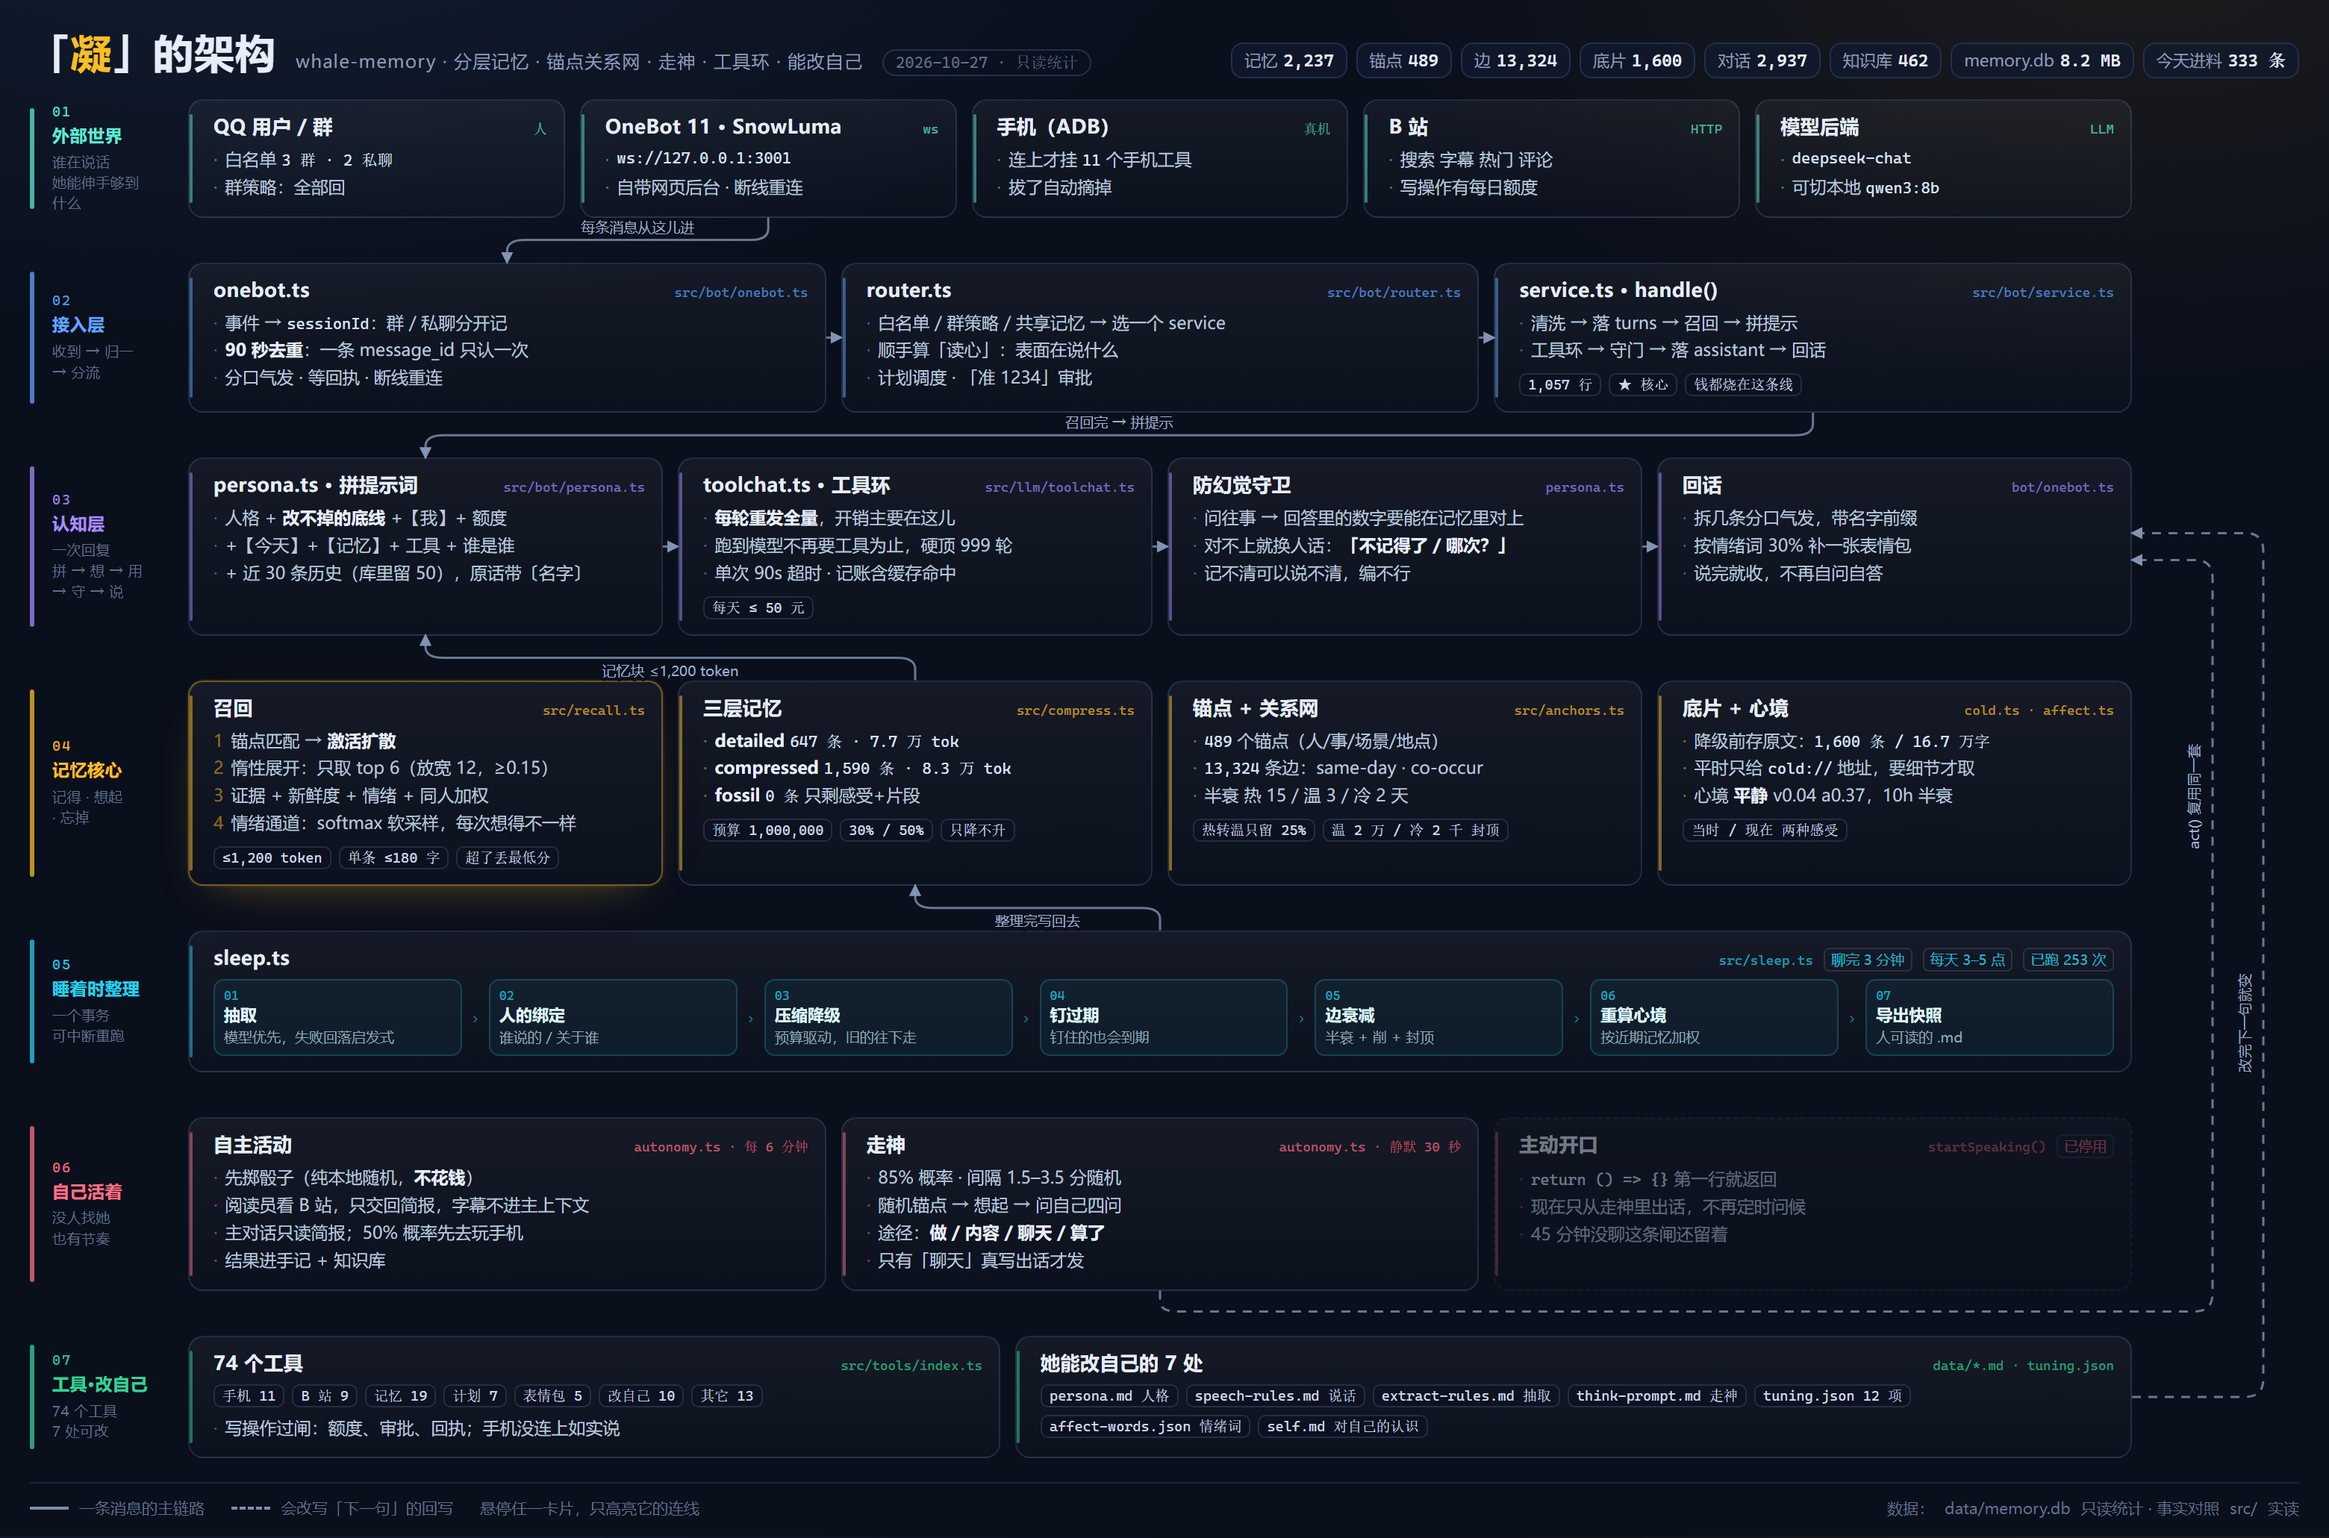
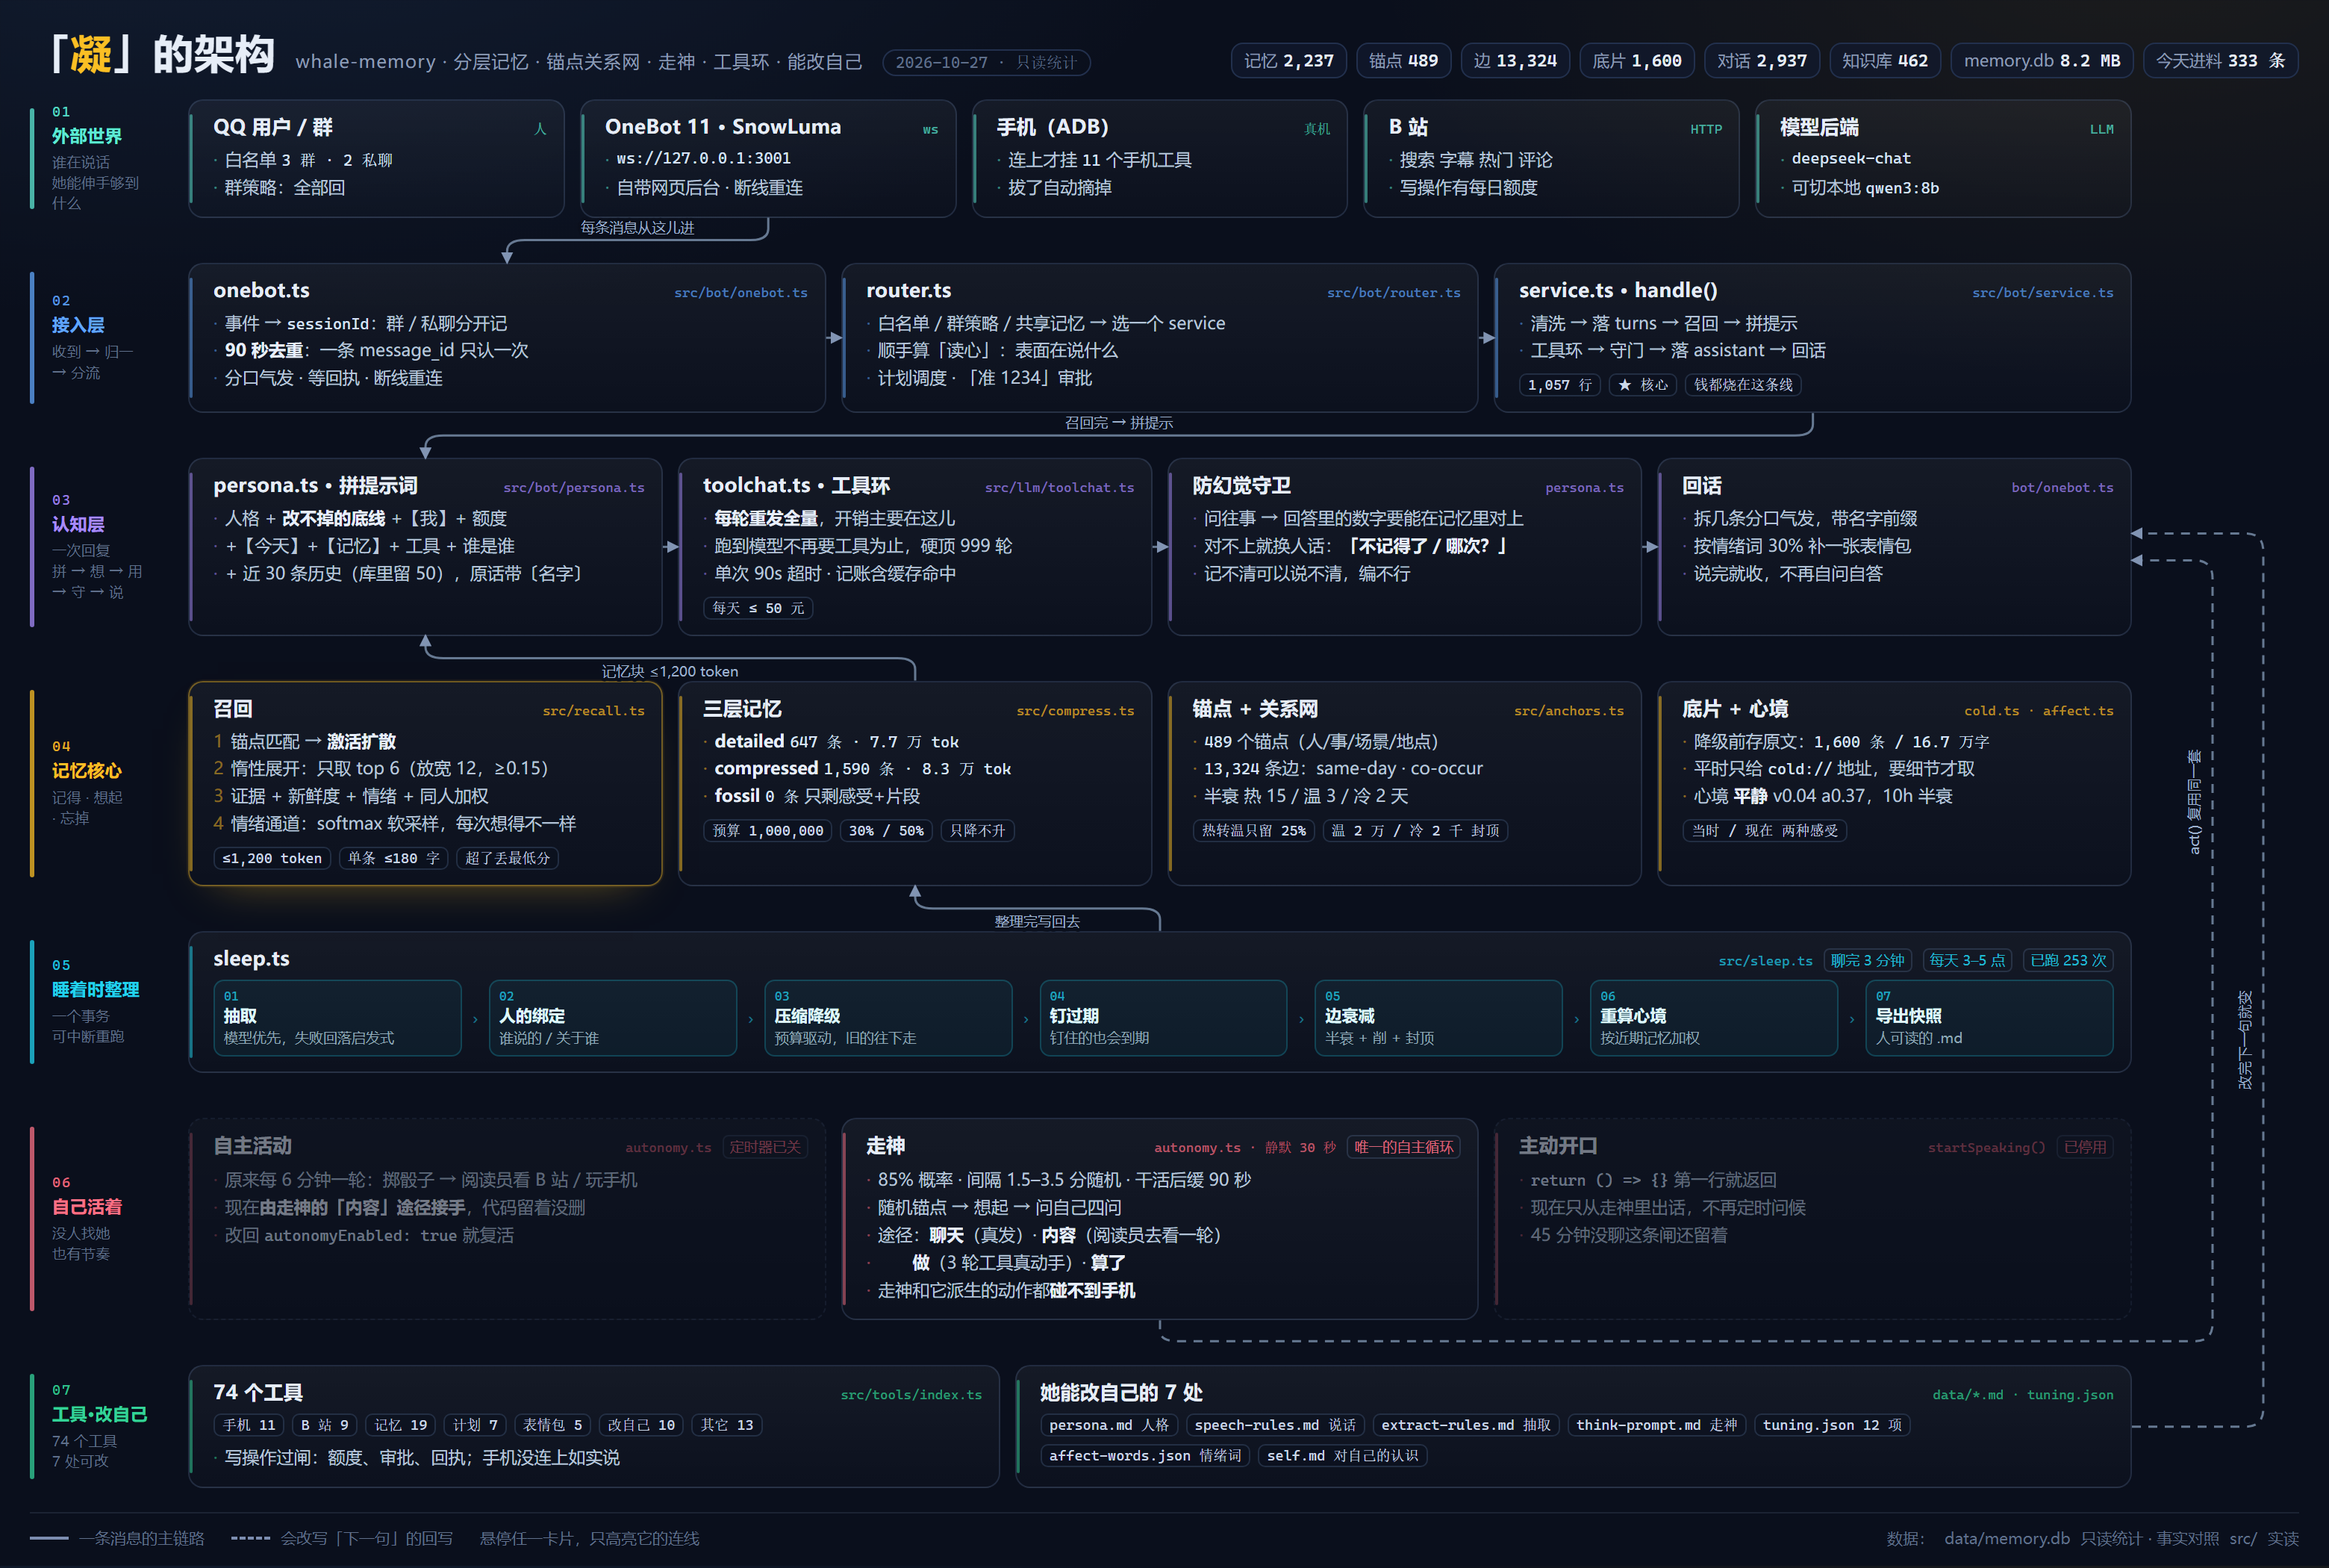
文档跟上代码：走神成为唯一自主循环、自主活动定时器关闭
- PROJECT.md：第六节重写成四条途径各有执行器；目录说明、后台线描述、
  已知问题（busy 锁）同步；今天改过的东西加第 12 条
- tuning.md：§6 改成「走神 = 唯一的自主循环」，标出自主活动那套旋钮已失效、
  autonomyIdleMinutes 从没接线；省钱/活泼两处场景改推荐项
- rules.md：轮次上限、各循环时间参数表按现状重写（走神 85%、自主活动已关）
- how-i-work.md：第五节改成「你自己动起来」，只剩走神一条路 + 四途径表
- architecture-map.html：自主活动卡片标「定时器已关」并注明由走神接手，
  走神卡片标「唯一的自主循环」+ 四途径；重渲染 architecture-map.png

diff --git a/docs/architecture-map.html b/docs/architecture-map.html
@@ -303,19 +303,19 @@
   <div class="rail auto"><div class="n">06</div><div class="nm">自己活着</div><div class="ds">没人找她<br>也有节奏</div></div>
   <div class="band">
     <div class="row">
-      <div class="card auto" data-id="auto-act">
-        <div class="hd"><b>自主活动</b><span class="p">autonomy.ts · 每 6 分钟</span></div>
-        <div class="ln"><i>·</i><span>先掷骰子（纯本地随机，<b>不花钱</b>）</span></div>
-        <div class="ln"><i>·</i><span>阅读员看 B 站，只交回简报，字幕不进主上下文</span></div>
-        <div class="ln"><i>·</i><span>主对话只读简报；50% 概率先去玩手机</span></div>
-        <div class="ln"><i>·</i><span>结果进手记 + 知识库</span></div>
+      <div class="card auto is-off" data-id="auto-act">
+        <div class="hd"><b>自主活动</b><span class="p">autonomy.ts</span><span class="cls">定时器已关</span></div>
+        <div class="ln"><i>·</i><span>原来每 6 分钟一轮：掷骰子 → 阅读员看 B 站 / 玩手机</span></div>
+        <div class="ln"><i>·</i><span>现在<b>由走神的「内容」途径接手</b>，代码留着没删</span></div>
+        <div class="ln"><i>·</i><span>改回 <span class="m">autonomyEnabled: true</span> 就复活</span></div>
       </div>
       <div class="card auto" data-id="auto-think">
-        <div class="hd"><b>走神</b><span class="p">autonomy.ts · 静默 30 秒</span></div>
-        <div class="ln"><i>·</i><span>85% 概率 · 间隔 1.5–3.5 分随机</span></div>
+        <div class="hd"><b>走神</b><span class="p">autonomy.ts · 静默 30 秒</span><span class="cls">唯一的自主循环</span></div>
+        <div class="ln"><i>·</i><span>85% 概率 · 间隔 1.5–3.5 分随机 · 干活后缓 90 秒</span></div>
         <div class="ln"><i>·</i><span>随机锚点 → 想起 → 问自己四问</span></div>
-        <div class="ln"><i>·</i><span>途径：<b>做 / 内容 / 聊天 / 算了</b></span></div>
-        <div class="ln"><i>·</i><span>只有「聊天」真写出话才发</span></div>
+        <div class="ln"><i>·</i><span>途径：<b>聊天</b>（真发）· <b>内容</b>（阅读员去看一轮）</span></div>
+        <div class="ln"><i>·</i><span>　　<b>做</b>（3 轮工具真动手）· <b>算了</b></span></div>
+        <div class="ln"><i>·</i><span>走神和它派生的动作都<b>碰不到手机</b></span></div>
       </div>
       <div class="card auto is-off" data-id="auto-speak">
         <div class="hd"><b>主动开口</b><span class="p">startSpeaking()</span><span class="cls">已停用</span></div>

diff --git a/docs/PROJECT.md b/docs/PROJECT.md
@@ -48,7 +48,7 @@ src/
     router.ts            按会话分流（共享记忆/独立记忆）、群白名单
     service.ts           ★核心：拼提示词、调模型、工具循环、历史、记账（1100 行）
     persona.ts           提示词拼装（人格/场景/记忆/历史/工具清单）
-    autonomy.ts          走神 + 自主活动 + 主动开口（被停用）
+    autonomy.ts          走神（**唯一的自主循环**）+ 自主活动（定时器已停用）+ 主动开口（已停用）
     config.ts            bot.json 读取与类型
     logview.ts           把 console 落成 bot.log + 3211 端口日志网页
   llm/
@@ -104,7 +104,7 @@ src/
 ④ 回复：分口气发（bubbles），带名字前缀
 ```
 
-**另有一条后台线**：`sleep.ts`（聊完 3 分钟 / 每天 3–5 点）做抽取和压缩；`autonomy.ts` 每 6 分钟做一轮自主活动、每 1.5–3.5 分钟走一次神。
+**另有一条后台线**：`sleep.ts`（聊完 3 分钟 / 每天 3–5 点）做抽取和压缩；`autonomy.ts` 每 1.5–3.5 分钟走一次神——**走神现在是唯一的自主循环**：去 B 站看、动手做事，都由它自己决定（自主活动的定时器已关）。
 
 ## 五、记忆是怎么组织的
 
@@ -139,12 +139,22 @@ src/
 
 | 行为 | 触发 | 现状 |
 |---|---|---|
-| **走神** | 安静 30 秒、85% 概率、两轮隔 1.5–3.5 分 | 活着。今天 27 次，其中 26 次判断"没要做的" |
-| **自主活动** | 每 6 分钟一轮 | 活着。B 站 / 手机 / 整理记忆，50% 概率去玩手机 |
+| **走神** | 安静 30 秒、85% 概率、两轮隔 1.5–3.5 分 | **唯一的自主循环**（2026-10-27 起）。四条途径都有落点，见下 |
+| **自主活动** | 原本每 6 分钟一轮 | ⚠ **定时器已关**（`bot.json` 的 `autonomyEnabled: false`），代码没删。主体（阅读员看 B 站）已挪成走神的「内容」途径 |
 | **主动开口** | 45 分钟没聊 | ⚠ **已停用**：`startSpeaking()` 第一行就是 `return () => {}` |
 
 走神的输出被解析成「目的 / 途径 / 消息 / 给」四行（`src/intent.ts`），途径 = `做 / 内容 / 聊天 / 算了`。
-只有途径 = 聊天且消息 ≥ 2 字才真的发出去。
+
+**四条途径在 2026-10-27 之前只有「聊天」真的发生什么**：「内容」和「做」只往手记写一行，`intent.action` 全项目没人读。现在：
+
+| 途径 | 谁执行 | 上限 |
+|---|---|---|
+| 聊天 | `onSpeak(msg, to)` → `deliver()` 真发出去 | — |
+| 内容 | `readOnce()`：派阅读员看一轮 B 站 → 简报 → 存知识库/写手记 | 阅读员 6 轮 + 学习 4 轮 |
+| 做 | `actOnce()`：给一件事，真的动手 | 3 轮 |
+| 算了 | 什么都不做 | — |
+
+两个执行器都和走神本身一样**不碰手机**（手机工具只在聊天里可用）。
 
 ## 七、工具系统（74 个）
 
@@ -200,6 +210,11 @@ src/
 11. **走神不再带手机工具**：`think()` 传 `toolFilter`（`service.ts` 的 `noPhoneTools`），
     `runChatWithTools` 按名字过滤 schema，提示词里的【工具】那行也跟着过滤。
     聊天和自主活动**照旧**有手机（玩手机那条路要用）。验证：`node tools/verify-think-no-phone.ts`
+12. **走神接上「内容」和「做」两个执行器**（`autonomy.ts` 的 `readOnce()` / `actOnce()`）：
+    以前四条途径里只有「对话」会真的发生什么，「内容」「做」只写一行手记。
+    现在「内容」派阅读员看一轮 B 站（原来自主活动的主体），「做」给 3 轮工具真的去做。
+    同时 `autonomyEnabled: false`——定时器关掉，代码留着。
+    验证：`node tools/verify-think-channels.ts`（换掉 fetch，两条路各跑一遍）
 
 ## 十、改代码的纪律（踩过的坑）
 
@@ -230,7 +245,7 @@ node tools/verify-phone-doc.ts        # 她能不能读到手机文档
 | 项 | 状态 |
 |---|---|
 | 主动开口（45 分钟）被 `return () => {}` 停用 | 待决定是否恢复 |
-| 走神与自主活动抢同一个 `busy` 锁，走神常被"刚忙完"跳过 | 待定 |
+| 走神与自主活动抢同一个 `busy` 锁，走神常被"刚忙完"跳过 | **已解决**（2026-10-27）：自主活动定时器关掉，只剩走神一条路 |
 | 第二层缺口：`same-day` 边仍是"当天锚点两两全连" | 已有限流方案未启用 |
 | GitHub 公开准备（拆出记忆、密钥、290 个一次性脚本、LICENSE、README） | 未开始 |
 | 日志每小时清空，不利于排查 | 未改 |

diff --git a/docs/how-i-work.md b/docs/how-i-work.md
@@ -98,15 +98,26 @@ events 表（当前 2000+ 条，分 detailed / compressed 两层）
 
 ---
 
-## 五、三种「她自己动起来」
+## 五、你自己动起来
 
-| 机制 | 触发条件 | 干什么 |
+**现在只剩一条路：走神。** 另外两条已经停了（代码还在，改回来就能用）。
+
+| 机制 | 现状 | 什么时候发生 / 干什么 |
 |---|---|---|
-| 主动开口 `speakUp()` | `autonomy.ts` 每 1–20 分钟随机检查；闲置越久概率越高（最高 0.7）；到额度上限就停 | 自己决定要不要开口说什么，返回「沉默」就不发 |
-| 走神 `think()` | 闲置超过 `thinkIdleSeconds`、任何活动后缓 `thinkSettleSeconds`、间隔 0.3–60 分钟、掷中 `thinkChance` | 静下来想事，可能变成计划、可能找人说话 |
-| 自主活动 `act()` | 每 `autonomyMinutes`（现在 6 分钟）一次，0–24 点 | 看视频、玩手机、整理记忆、写东西 |
+| **走神** `think()` | ✅ 活着，唯一的自主循环 | 安静 30 秒、缓过 90 秒、每 1.5–3.5 分钟掷一次（85%）。想起一个人或一件事，然后自己决定干什么 |
+| 自主活动 | ⚠ **定时器关着**（`autonomyEnabled: false`） | 原来每 6 分钟去 B 站看一轮、或者玩手机。现在这件事由走神的「内容」途径接手 |
+| 主动开口 `speakUp()` | ⚠ **停用**（`startSpeaking()` 第一行就返回） | 原来闲置 45 分钟后可能主动找你说话 |
 
-三者都走同一个模型入口，所以都能调工具。
+走神想完一定给出「目的 / 途径 / 消息 / 给」四行，途径只有四种，各有一个落点：
+
+| 途径 | 会发生什么 |
+|---|---|
+| 聊天 | 真的发消息给你（没写消息就不发，手记里留一笔） |
+| 内容 | 派阅读员去看一轮 B 站 → 简报 → 存进知识库、写手记 |
+| 做 | 真的动手：3 轮工具，改规矩、查记忆、设计划、写笔记 |
+| 算了 | 什么都不做，连手记都不写 |
+
+**走神和它派生的动作都碰不到手机**——手机工具只在跟你聊天时可用。
 
 ---
 

diff --git a/docs/rules.md b/docs/rules.md
@@ -20,7 +20,7 @@
 | 6 | 工具按设备挂载 | `adb devices` 无设备 | 11 个手机工具**不注册** | tools/index.ts |
 | 7 | 说话人加权 | 共享记忆下检索 | 自己的事 ×1.25，别人的 ×0.75 | recall.ts |
 | 8 | 气泡拆分 | 回复 >28 字且有多句 | 拆成 1–3 条，中间停 0.45–1.5 秒 | bubbles.ts |
-| 9 | 工具轮次上限 | 一次行动 | 普通 8 轮 / 玩手机 25 轮 / 走神 20 轮 | service.ts |
+| 9 | 工具轮次上限 | 一次行动 | 回话 12 轮 / 走神想事 12 轮；走神派生出的「做」**3 轮**、「内容」的学 **4 轮** | service.ts · autonomy.ts |
 | 10 | 写操作次数 | `biliDailyWriteLimit` | **0 = 不限**（现在是 0） | bili.ts |
 | 11 | 视频额度 | `biliDailyVideoQuota` | **0 = 不限**（现在是 0） | bili.ts |
 | 12 | 批准流 | `approvalRequired` | **现在是 false**；留着备用于花钱 | approvals.ts |
@@ -29,10 +29,9 @@
 
 | 循环 | 间隔 | 门槛 | 掷骰子概率 |
 |---|---|---|---|
-| 主动开口 | 随机 1–20 分钟 | 你 45 分钟没说话 | 25%→70%（越久越高） |
-| 走神 | 随机 1.5–3.5 分钟 | 你 30 秒没说话 | 55% |
-| 自主活动 | 固定 8 分钟 | 你 3 分钟没说话 | 62% |
-| 玩手机 | 占自主活动的 50% | 手机得连着 | — |
+| **走神**（现在是唯一的自主循环） | 随机 1.5–3.5 分钟 | 你 30 秒没说话 + 干活后缓 90 秒 | 85% |
+| 主动开口 | 随机 1–20 分钟 | 你 45 分钟没说话 | 25%→70%（越久越高）—— **已停用** |
+| 自主活动 | 固定 6 分钟 | 你 3 分钟没说话 | ~85% —— **定时器已关** |
 | 睡眠 | 每 60 秒检查 | 3 分钟 / 12 小时 / 每天 4 点 | — |
 
 ---
